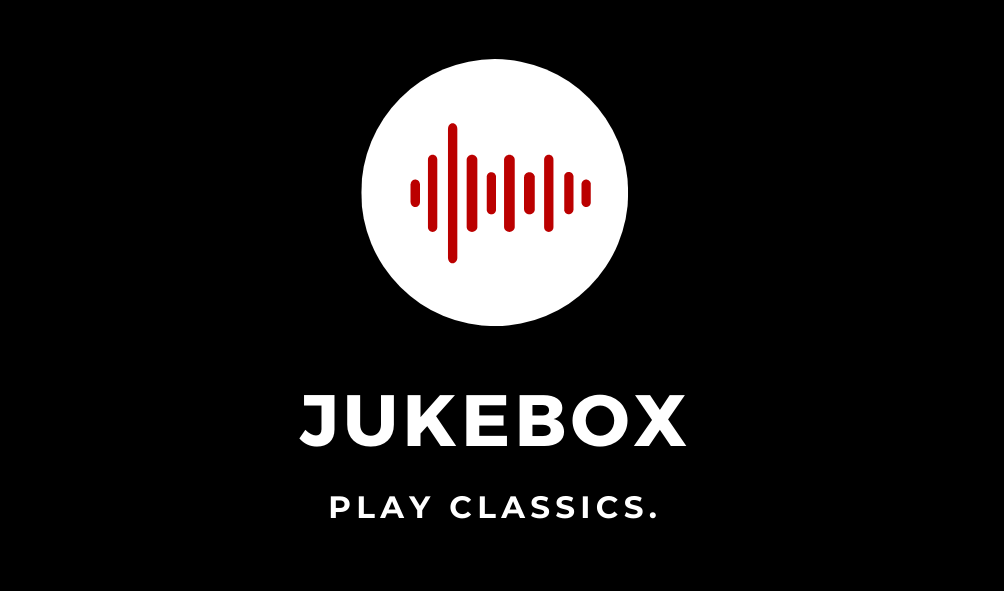
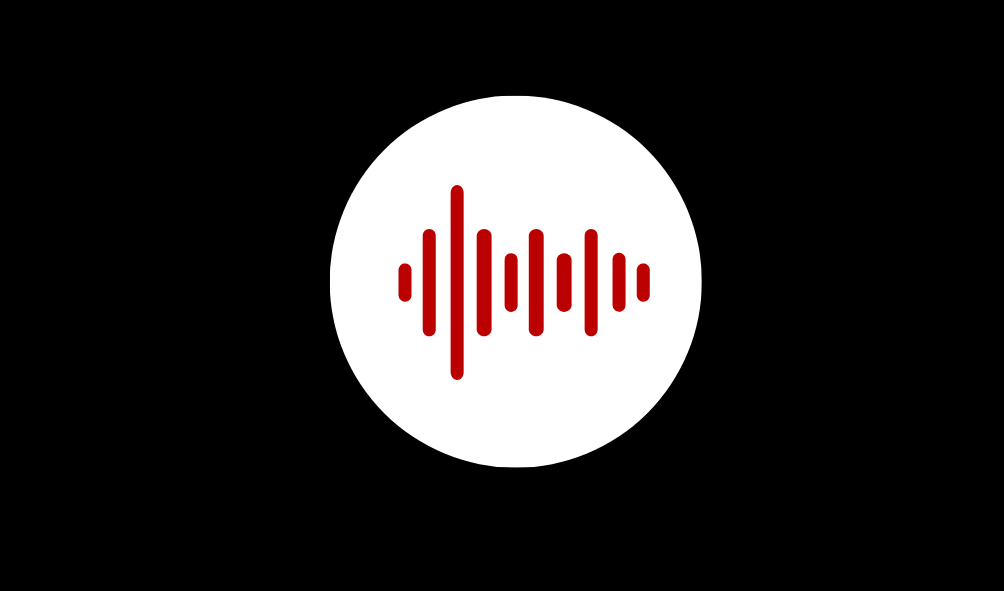
nav

Changed region(s): [[0.2779, 0.0914, 0.7102, 0.7919], [0.3088, 0.8223, 0.6484, 0.8832]]

diff --git a/index.html b/index.html
@@ -27,7 +27,7 @@
   </div>
 </header>
   <div class="home">
-<img class="welcome" src="IMG/JUKEHOME.jpg" alt="welcome">
+<img class="welcome" src="IMG/homepage.jpg" alt="welcome">
 
     <br>
     <br>
